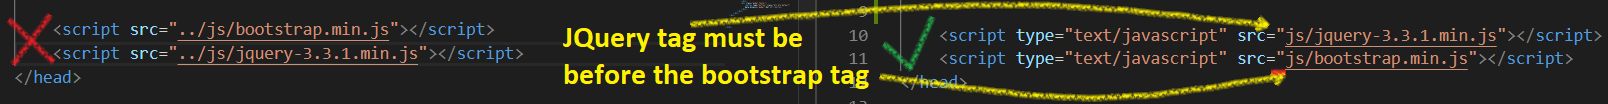
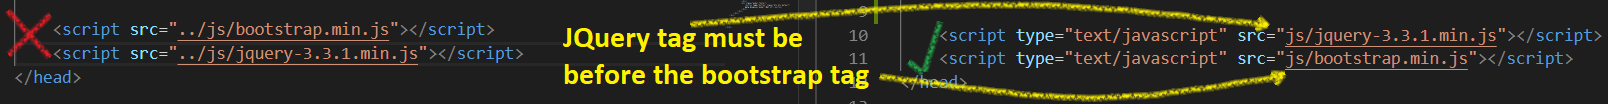
Add T2 blog part 2, refine HTML on part 1 and part 2 and refine custom styles. Add JQuery Script image

Changed region(s): [[0.5286, 0.1731, 0.5908, 0.6923], [0.0, 0.0865, 0.0311, 0.6058], [0.7774, 0.6635, 0.8085, 0.7212]]

diff --git a/blog/t2-html-css-dom-p2.html b/blog/t2-html-css-dom-p2.html
@@ -1,19 +1,111 @@
 <!DOCTYPE html>
-<html>
+
+<html lang="en">
+
 <head>
+    <!-- <meta http-equiv="Content-Type" content="text/html; charset=windows-1252"> -->
+
     <meta charset="utf-8" />
     <meta http-equiv="X-UA-Compatible" content="IE=edge">
-    <title>T2 HTML, CSS, DOM, Bootstrap</title>
+    <title>T2 Post Part 2 of 2 - Peter Torr Smith</title>
     <meta name="viewport" content="width=device-width, initial-scale=1">
+
+
     <link rel="stylesheet" type="text/css" media="screen" href="../css/bootstrap.min.css" />
-    <link rel="stylesheet" type="text/css" media="screen" href="../css/bootstrap-theme.min.css" />
+    <!-- <link rel="stylesheet" type="text/css" media="screen" href="../css/bootstrap-theme.min.css" /> -->
     <link rel="stylesheet" type="text/css" media="screen" href="../css/styles.css" />
+    <!-- <link href="https://fonts.googleapis.com/css?family=Alfa+Slab+One|Indie+Flower&amp;subset=latin-ext" rel="stylesheet"> -->
 
-    <script src="../js/bootstrap.min.js"></script>
+    <link href="https://fonts.googleapis.com/css?family=Alfa+Slab+One&amp;subset=latin-ext" rel="stylesheet">
+    <link href="https://fonts.googleapis.com/css?family=Indie+Flower&amp;subset=latin-ext" rel="stylesheet">
+
     <script src="../js/jquery-3.3.1.min.js"></script>
-
+    <script src="../js/bootstrap.min.js"></script>
 </head>
+
 <body>
-    
+    <!-- <div class="container-fluid"> -->
+    <div class="container">
+        <div class="row">
+            <div class="col-md-2 home-logo">
+                <img src="../images/PeterTorrSmithColour-250px-width.jpg" alt="Peter Torr Smith profile" class="img-responsive" data-toggle="modal"
+                    data-target="#modal-01-PTS">
+            </div>
+
+            <div class="col-md-6 text-right">
+                <h1 class="page-title">Learnings of Grid layouts, Responsive design, HTML Semantics, Bootsrap and JQuery,
+                    and more</h1>
+            </div>
+
+
+
+            <div class="col-md-4 text-right">
+                <div class="page-title-main">Peter Torr Smith</div>
+                <div class="page-title-subtitle">T2 Blog Part 2 of 2</div>
+            </div>
+        </div>
+        <div class="row">
+            <div class="col-md-3 nav">
+                <h3 class="home-link"><a href="../index.html">Home</a></h3>
+                <ul class="list">
+                    <li class="list-item"> <a href="#grid-design">Grid based design</a> </li>
+                    <li class="list-item"> <a href="#responsive-design">Responsive Design</a> </li>
+                    <li class="list-item"> <a href="#semantics">HTML Semantics</a> </li>
+                    <li class="list-item"> <a href="#other-learnings">Other learnings and interests</a> </li>
+                </ul>
+
+            </div>
+            <div class="col-md-9 article">
+                <section>
+                    <h2 id="grid-design">Grid Based Design</h2>
+                    <p>Laying out page elements in rows divided using a 12 column grid system.</p>
+                </section>
+                <section>
+                    <h2 id="responsive-design">Responsive and adaptive Design</h2>
+                    <p>Design pages so they adapt both the size of elements like images and fonts, but also the relative
+                        location of the elements, or more often the boxes the contents are in.</p>
+                </section>
+                <section>
+                    <h2 id="semantics">HTML Semantics - what the page content means, not how it looks</h2>
+                    <p>This is writing HTML so it describes the meaning and relationships and hierarchy of the page contents,
+                        and not the look and feel of those elements. </p>
+                </section>
+                <section>
+                    <h2 id="other-learnings">Other Learnings - Bootstrap and JQuery</h2>
+                    <p>Bootstrap is a collection of CSS styles and JavaScript functions that we can use to layout and style
+                        our page and manage common user interactions such as pop-up "lightbox" images.</p>
+                    <p>JQuery is another helper JavaScript library to help with visual user interactions.  Bootstrap relies on JQuery for many of its advance UI behaviours. 
+                        As such, it is important that when both these libraries are linked to in the "head" section of a page, the JQueary script tag is prior to the Bootstrap script tag</p>
+<div class="image"><img src="../images/JQueryBeforeBootstrapJSHeadTags.png" alt="Bootstap needs JQuery so the JQuery script tag in the head must be prior to the Bootstrap script tag" class="img-responsive" ></div>
+                    
+                </section>
+            </div>
+
+        </div>
+
+
+
+
+    </div>
+
+    <!-- Modal 01 PTS -->
+    <div class="modal fade" id="modal-01-PTS" tabindex="-1" role="dialog" aria-labelledby="myModalLabel" aria-hidden="true">
+        <div class="modal-dialog">
+            <div class="modal-content">
+                <div class="modal-header">
+                    <h4 class="modal-title" id="myModalLabel">Peter Torr Smith</h4>
+                </div>
+                <div class="modal-body">
+                    <img class="img-responsive" src="../images/PeterTorrSmithColour-250px-width.jpg" alt="Peter Torr Smith mugshot">
+                    <p>contact me at <a href="mailto:peter@ptorrsmith.com">peter@ptorrsmith.com</a></p>
+                </div>
+                <div class="modal-footer">
+                    <button type="button" class="btn btn-default" data-dismiss="modal">Sure will!</button>
+                </div>
+            </div>
+        </div>
+    </div>
 </body>
+
+
 </html>

diff --git a/blog/t2-html-css-dom-p1.html b/blog/t2-html-css-dom-p1.html
@@ -7,7 +7,7 @@
 
     <meta charset="utf-8" />
     <meta http-equiv="X-UA-Compatible" content="IE=edge">
-    <title>Page Title</title>
+    <title>T2 Post Part 1 of 2 - Peter Torr Smith</title>
     <meta name="viewport" content="width=device-width, initial-scale=1">
 
 
@@ -27,12 +27,20 @@
     <!-- <div class="container-fluid"> -->
     <div class="container">
         <div class="row">
-            <div class="col-md-6">
-                <img src="../images/PeterTorrSmithColour-250px-width.jpg" alt="Peter Torr Smith profile" class="img-responsive home-logo"
-                    data-toggle="modal" data-target="#modal-01-PTS"></div>
+            <div class="col-md-2 home-logo">
+                <img src="../images/PeterTorrSmithColour-250px-width.jpg" alt="Peter Torr Smith profile" class="img-responsive" data-toggle="modal"
+                    data-target="#modal-01-PTS">
+            </div>
+
             <div class="col-md-6 text-right">
+                <h1 class="page-title">Learnings of the DOM, HTML, CSS, Grid, Bootsrap and JQuery</h1>
+            </div>
+
+
+
+            <div class="col-md-4 text-right">
                 <div class="page-title-main">Peter Torr Smith</div>
-                <div class="page-title-subtitle">T2 Blog - learnings of the DOM, HTML, CSS, Grid, Bootsrap and JQuery</div>
+                <div class="page-title-subtitle">T2 Blog Part 1 of 2</div>
             </div>
         </div>
         <div class="row">
@@ -48,7 +56,7 @@
             </div>
             <div class="col-md-9 article">
                 <section>
-                    <h1 id="design-wishlist">Design Wishlist</h1>
+                    <h2 id="design-wishlist">Design Wishlist</h2>
                     <p>Design and structural features I liked that I may want to use in my designs next sprint.</p>
                     <ul class="list">
                         <li class="list-item"> Responsive design </li>
@@ -66,7 +74,7 @@
                     </ul>
                 </section>
                 <section>
-                    <h1 id="analogy">HTML, CSS &amp; DOM Analogy</h1>
+                    <h2 id="analogy">HTML, CSS &amp; DOM Analogy</h2>
                     <p>
                         HTML is the basic structure and semantics ("Meaning") of the content. Like the frame and dividers in a window. And the quote
                         and the psalm reference in a stained glass paenl.
@@ -84,7 +92,7 @@
                     </p>
                 </section>
                 <section>
-                    <h1 id="boxifying">What is Boxifying</h1>
+                    <h2 id="boxifying">What is Boxifying</h2>
                     <p>
                         Boxifying is imaginging the layout of a web page to be a series of boxes or rectangles inside, beside and below each other.
                         Sometimes imagining a 12x12 grid is useful, allowing us to partition a page into 1, 2, 3, 4 or 6
@@ -95,11 +103,14 @@
                 </section>
 
                 <section>
-                    <h1 id="box-model">The Box Model</h1>
+                    <h2 id="box-model">The Box Model</h2>
                     <p>
-                        The box model is using HTML to define those "boxes" where content lives... more like borderless flexible rectangles, often in rows and columns, and rectangles within rectangles, and then using CSS to define the margin outside the box, the border if desired, the padding inside the box, and the overall height and/or width of the box or its contents.
+                        The box model is using HTML to define those "boxes" where content lives... more like borderless flexible rectangles, often
+                        in rows and columns, and rectangles within rectangles, and then using CSS to define the margin outside
+                        the box, the border if desired, the padding inside the box, and the overall height and/or width of
+                        the box or its contents.
                     </p>
-               </section>
+                </section>
             </div>
 
         </div>
@@ -117,8 +128,9 @@
                     <h4 class="modal-title" id="myModalLabel">Peter Torr Smith</h4>
                 </div>
                 <div class="modal-body">
-                    <img class="img-responsive" src="../images/JQueryBeforeBootstrapJSHeadTags.png" alt="Showing that the JQuery Head script tag declaration must be before the bootstrap head script tag"> <p>I learned that the
-                        JQuery script head tag needs to be before the bootstrap script tag</p>
+                    <a href="../images/JQueryBeforeBootstrapJSHeadTags.png" target="_blank">
+                        <img class="img-responsive" src="../images/JQueryBeforeBootstrapJSHeadTags.png" alt="Showing that the JQuery Head script tag declaration must be before the bootstrap head script tag"></a>
+                    <p>I learned that the JQuery script head tag needs to be before the bootstrap script tag</p>
                 </div>
                 <div class="modal-footer">
                     <button type="button" class="btn btn-default" data-dismiss="modal">OK</button>

diff --git a/css/styles.css b/css/styles.css
@@ -1,31 +1,49 @@
 div {
-    border: dashed 0.5px lightskyblue;
+    /* border: dashed 0.5px lightskyblue; */
 }
 
 body {
-    font-family: 'Alfa Slab One', cursive;
     font-family: 'Indie Flower', cursive;
-    font-size: 2em;
+    font-size: 1.5em;
+    padding:3em;
 }
-
-
-.home-logo {
-    width: 80px;
-}
-
-.page-title-main {
-    font-family: 'Alfa Slab One', cursive;
-    font-weight: 200;
-    font-size: 3em;
-}
-
 h1 {
+    font-family: 'Indie Flower', cursive;
+    font-weight:bold;
+    /* font-size: 0.5em; */
+}
+
+h2 {
     font-family: 'Alfa Slab One', cursive;
         /* transform: rotate(-70deg);
         position: absolute;
         left: 0; */
 }
 
+.home-logo {
+    width: 120px;
+}
+
+
+.page-title {
+    /* font-family: 'Indie Flower', cursive; */
+    font-weight: 800;
+    color:indigo;
+}
+
+.page-title-main {
+    font-family: 'Alfa Slab One', cursive;
+    font-weight: 400;
+    font-size: 2em;
+}
+
+.page-title-subtitle {
+    font-family: 'Indie Flower', cursive;
+    font-weight: 100;
+    font-size: 2em;
+}
+
 .link {
     text-decoration-line: underline;
 }
+

diff --git a/index.html b/index.html
@@ -53,7 +53,10 @@
               <a href="./blog/c1-time-and-habits-blog.html">My C1 Time and Habits management reflections</a>
             </li>
             <li>
-              <a href="./blog/t2-html-css-dom-p1.html">My T2 HTML CSS DOM GRID Bootstrap learnings</a>
+              <a href="./blog/t2-html-css-dom-p1.html">My T2 Part 1 - HTML, CSS &amp; DOM learnings</a>
+            </li>
+            <li>
+              <a href="./blog/t2-html-css-dom-p2.html">My T2 Grid, Responsive, Semantic &amp; other learnings</a>
             </li>
           </ul>
         </div>
